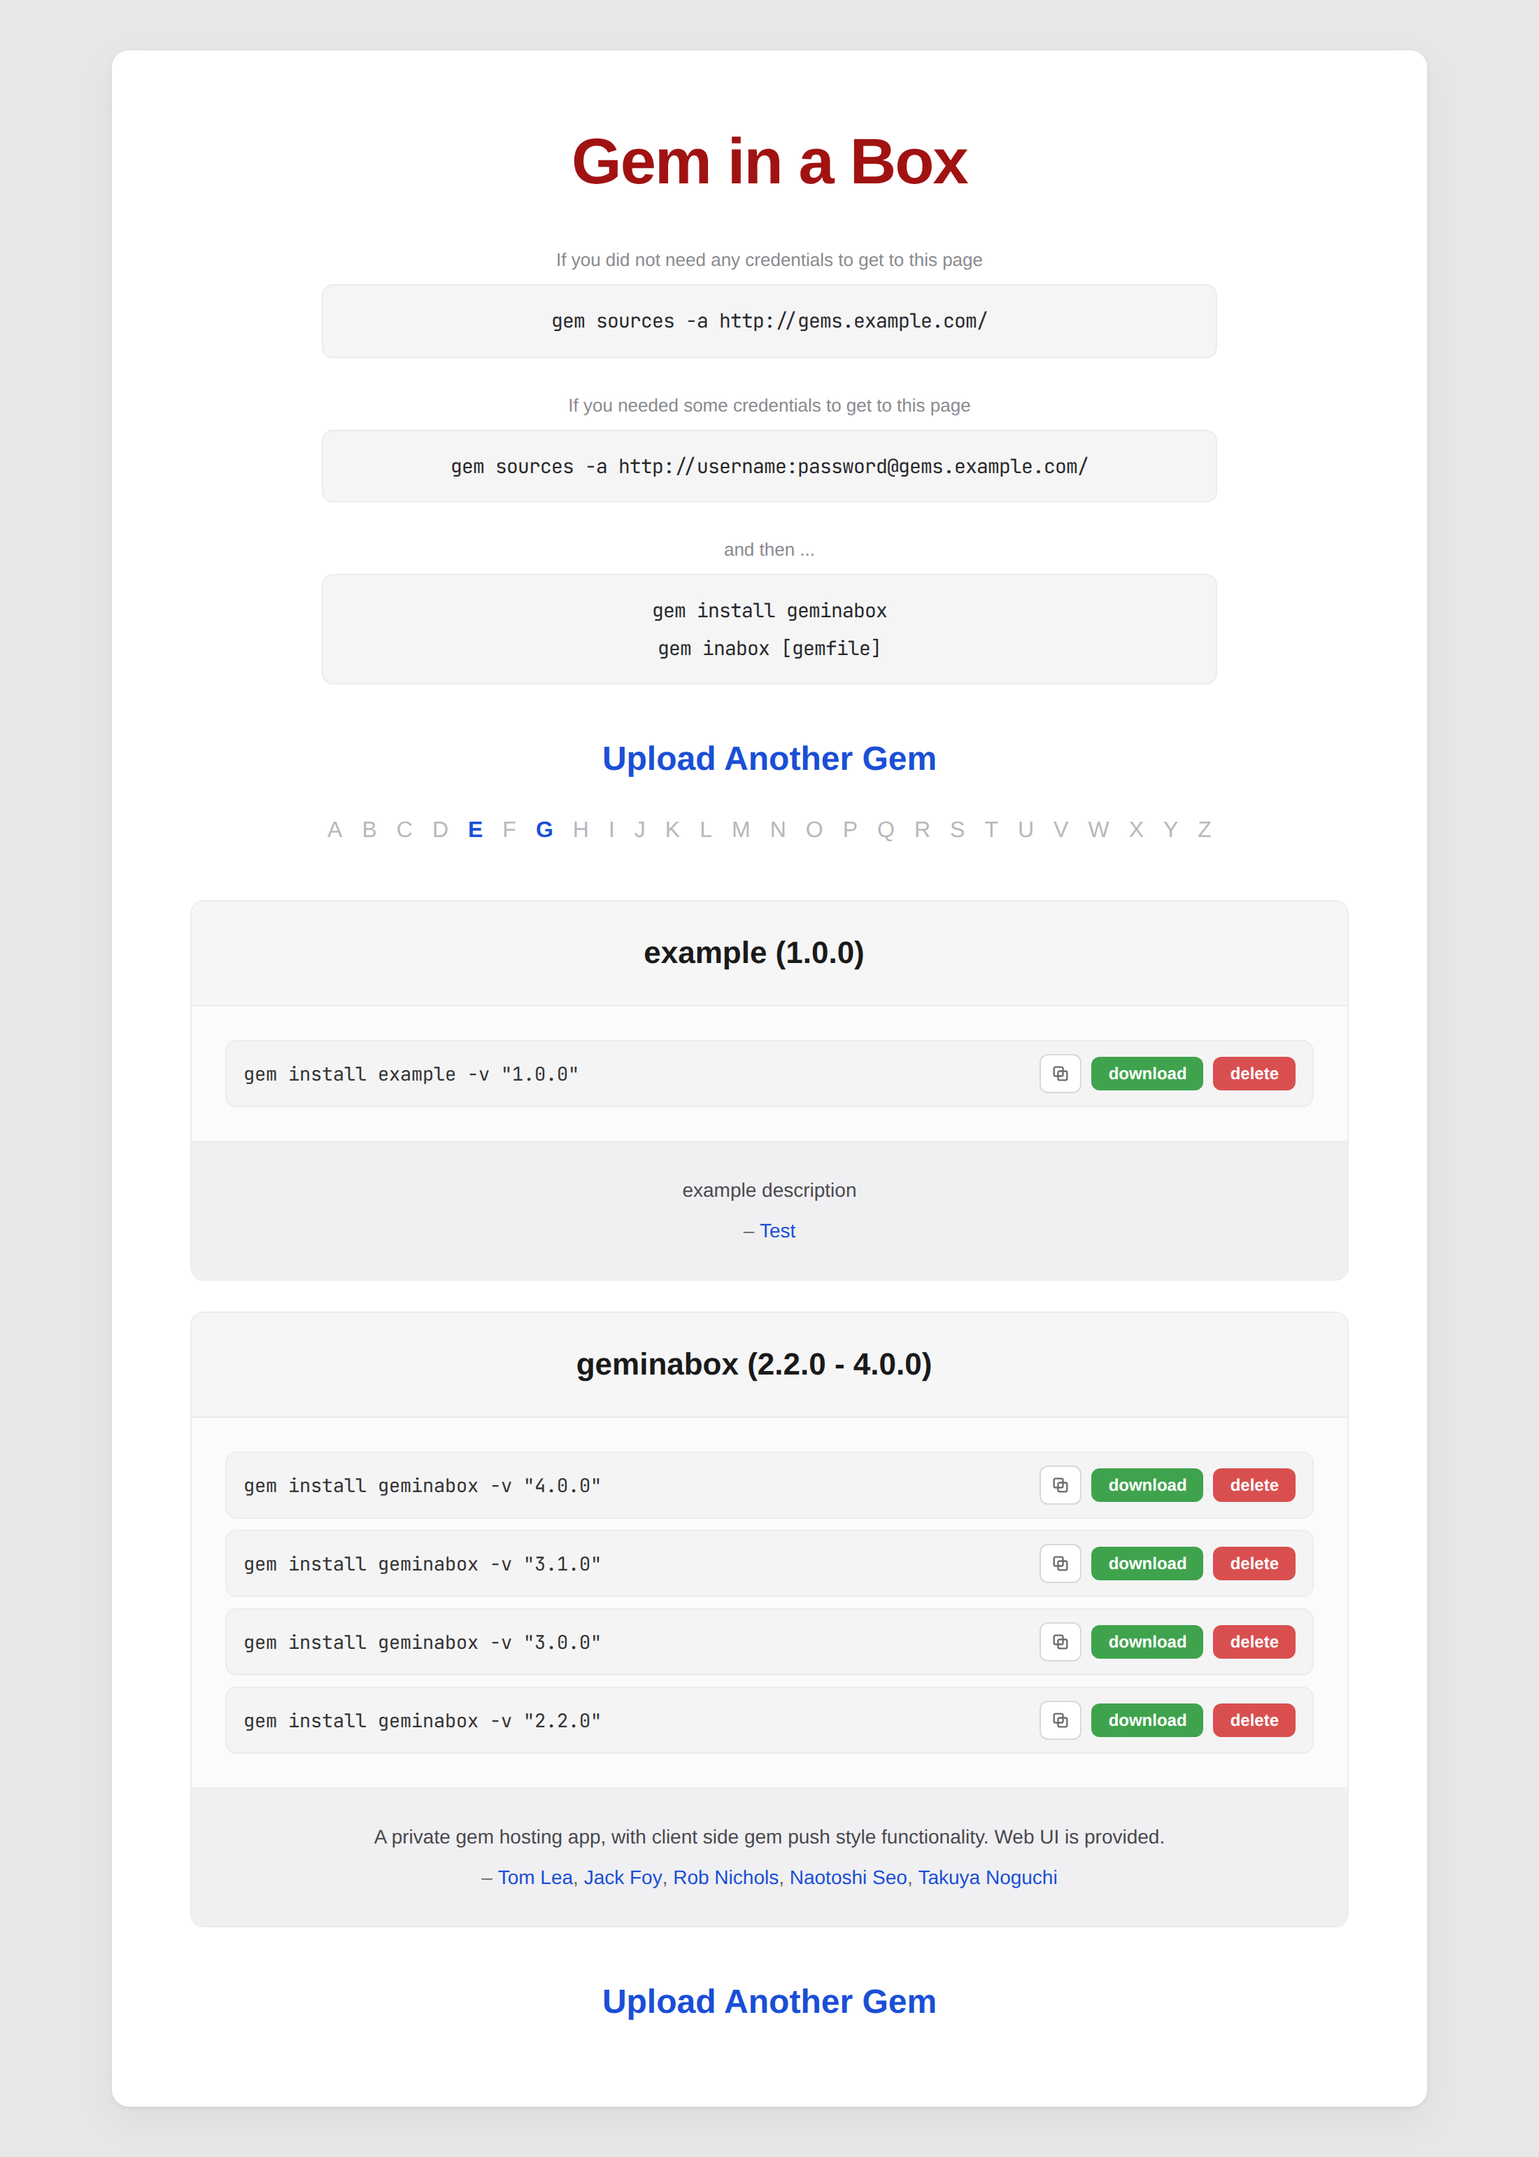
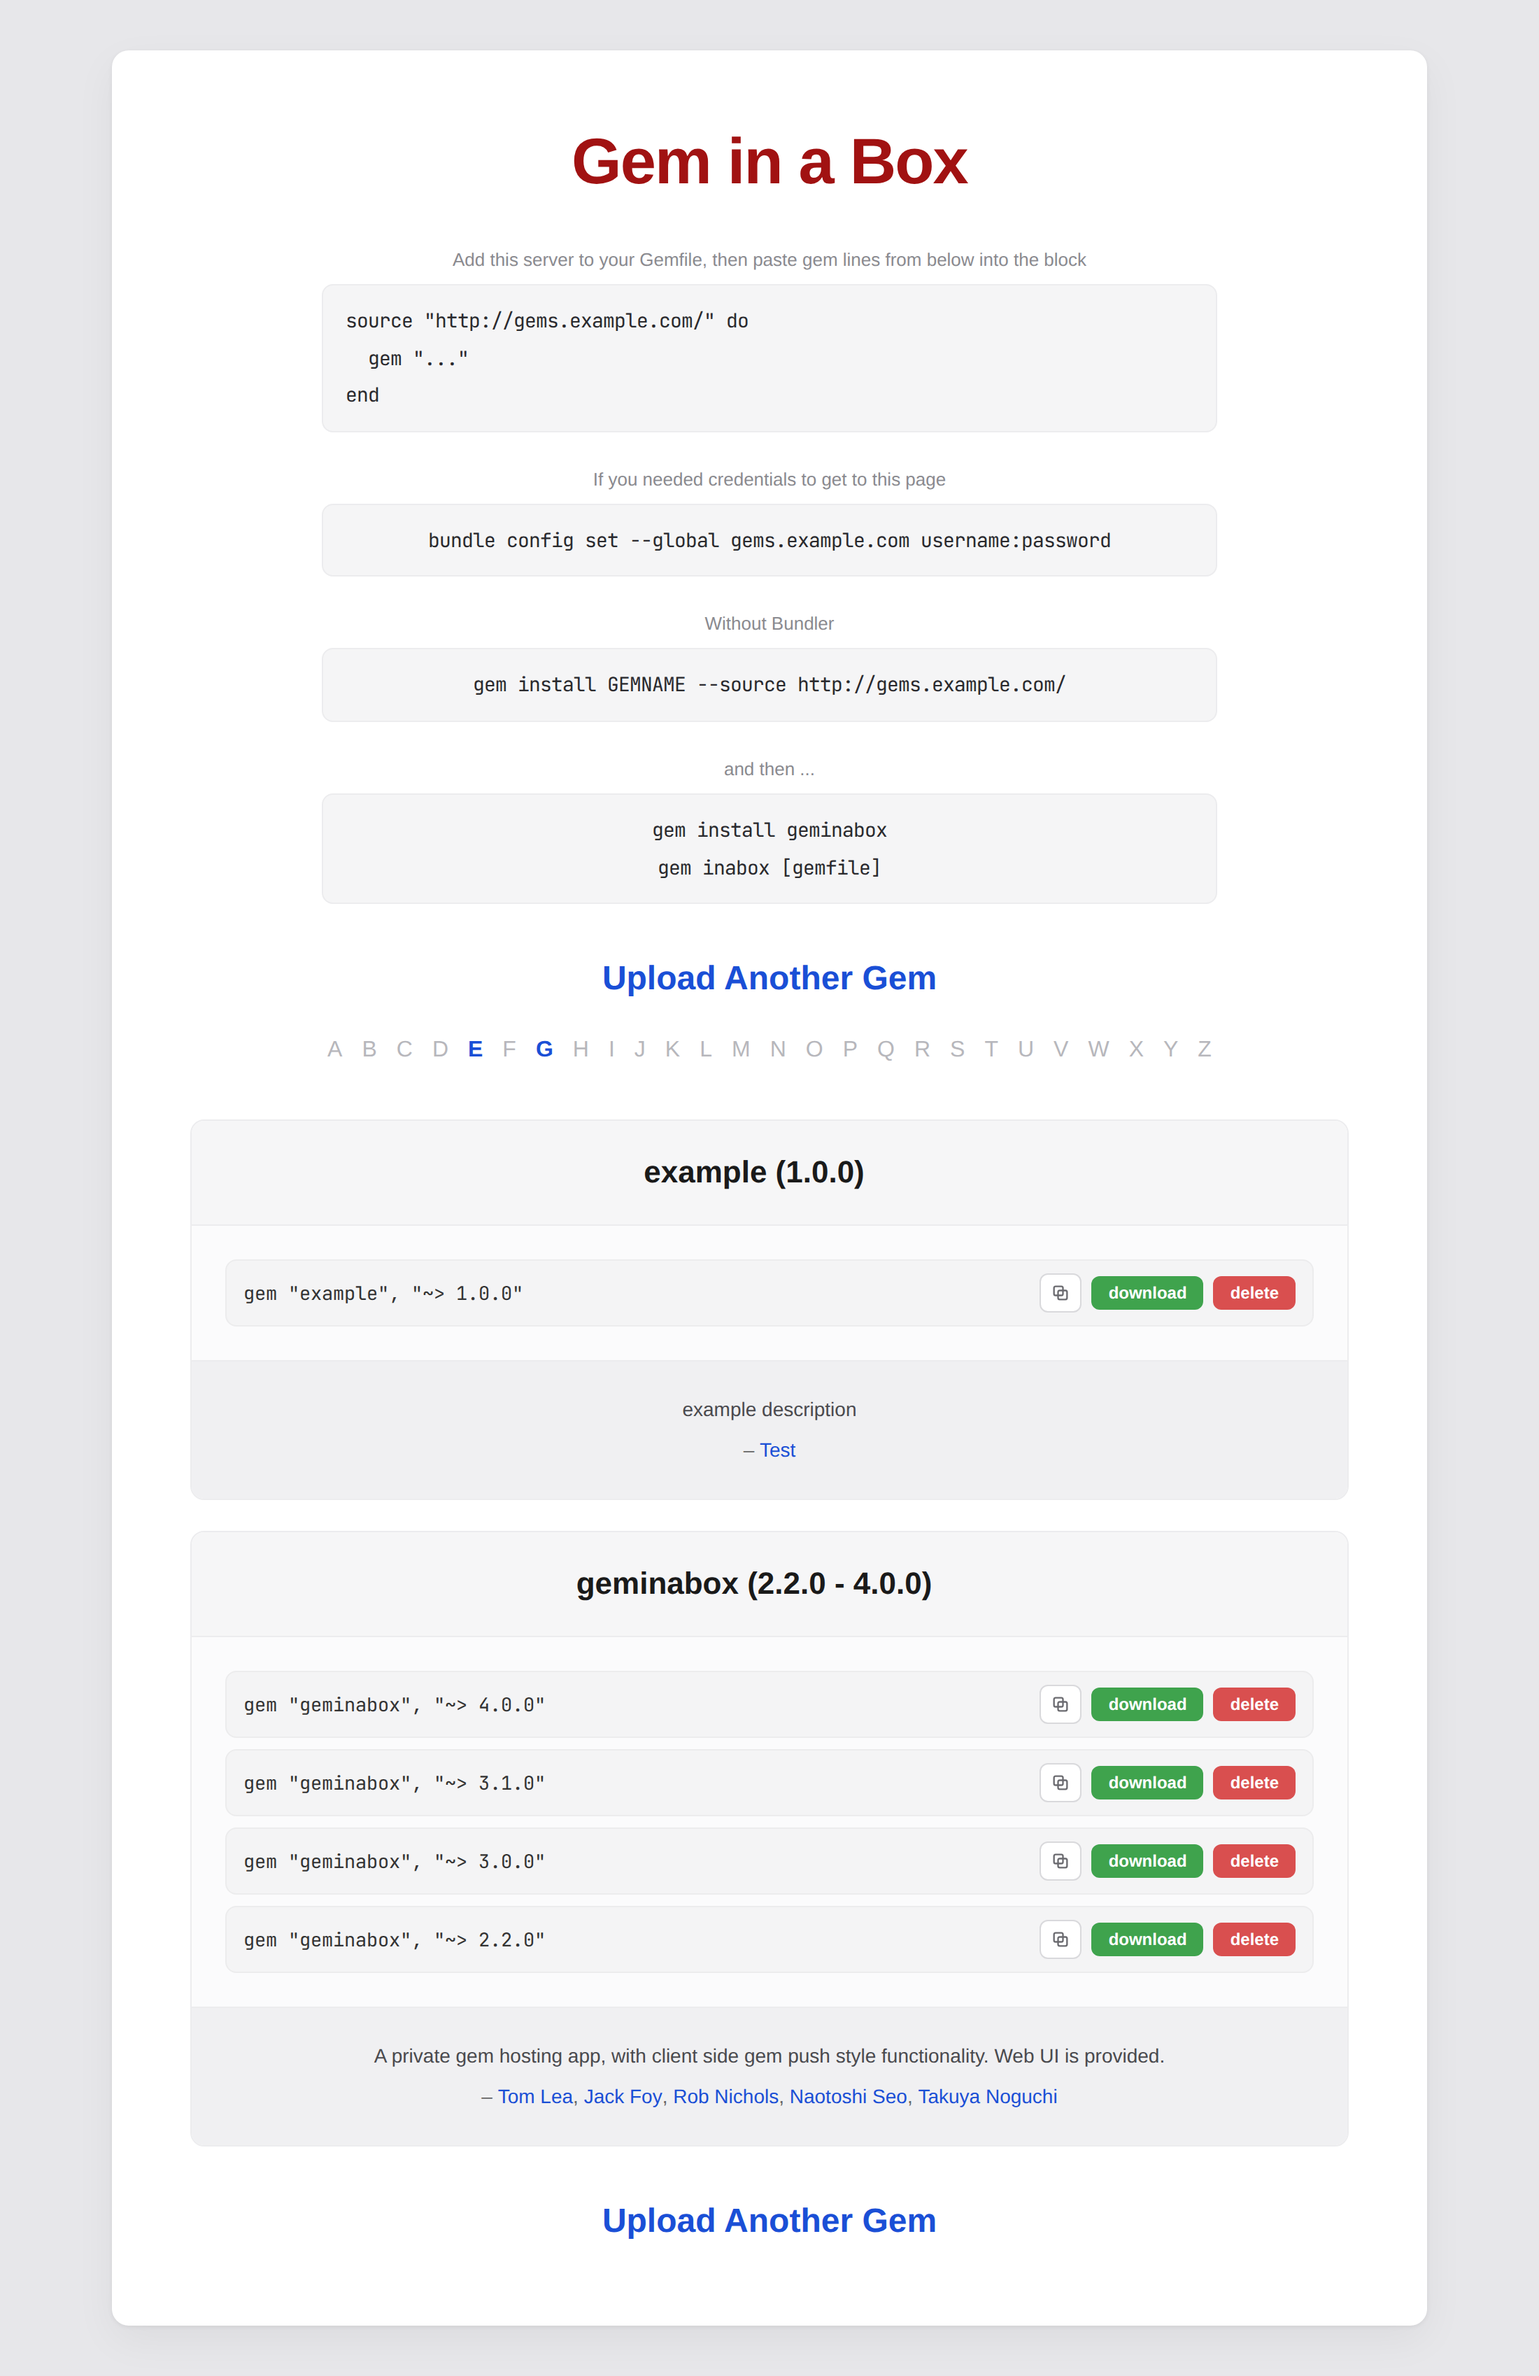
UI: offer Gemfile lines and a scoped source instead of gem sources -a
The index page told visitors to add this server as a global RubyGems source, the merged-namespace setup the README warns against, and each version row's bare gem install only worked because of it. The intro now shows a source block for this server, bundle config for credentials, and a one-off gem install --source; each row offers gem "name", "~> X.Y.Z" for pasting into that block. Ligatures are off in code so ~> does not render as an arrow. Screenshot refreshed.

diff --git a/public/master.css b/public/master.css
@@ -26,6 +26,8 @@ a:hover {
 
 code {
   font-family: "JetBrains Mono", ui-monospace, monospace;
+  /* JetBrains Mono otherwise draws "~>" as an arrow glyph. */
+  font-variant-ligatures: none;
 }
 
 form {
@@ -78,6 +80,11 @@ code.command {
   padding: 12px 16px;
   line-height: 1.9;
   overflow-x: auto;
+}
+
+code.command.snippet {
+  text-align: left;
+  white-space: pre;
 }
 
 .upload-link {

diff --git a/test/requests/install_instructions_test.rb b/test/requests/install_instructions_test.rb
@@ -1,0 +1,62 @@
+require_relative '../test_helper'
+require 'minitest'
+require 'rack/test'
+require 'nokogiri'
+
+# The UI steers clients to a Bundler scoped source, matching the README,
+# rather than adding this server as a global RubyGems source.
+class InstallInstructionsTest < Minitest::Test
+  include Rack::Test::Methods
+
+  def setup
+    clean_data_dir
+    inject_gems do |builder|
+      builder.gem "foo", version: "1.2.3"
+      builder.gem "bar", version: "2.0.0.pre"
+    end
+  end
+
+  def app
+    Geminabox::Server
+  end
+
+  def doc
+    Nokogiri::HTML(last_response.body)
+  end
+
+  def row_commands(path, env = {})
+    get path, {}, env
+    doc.css(".version-row code").map { |code| code.text.strip }
+  end
+
+  test "the index never recommends adding a global gem source" do
+    get "/"
+    refute_match(/gem sources -a/, last_response.body)
+  end
+
+  test "the index shows a scoped source block for this server" do
+    get "/"
+    assert_includes doc.css(".intro").text, 'source "http://example.org/" do'
+  end
+
+  test "the index keeps credentials out of the source URL" do
+    get "/"
+    assert_includes doc.css(".intro").text,
+                    "bundle config set --global example.org username:password"
+  end
+
+  test "version rows offer a pessimistic Gemfile line" do
+    ["/", "/gems/foo"].each do |path|
+      assert_includes row_commands(path), 'gem "foo", "~> 1.2.3"', "on #{path}"
+    end
+  end
+
+  test "prerelease rows carry the prerelease version in the requirement" do
+    assert_includes row_commands("/"), 'gem "bar", "~> 2.0.0.pre"'
+  end
+
+  test "the source block follows a sub-URI mount" do
+    get "/", {}, "SCRIPT_NAME" => "/gems"
+    assert_includes doc.css(".intro").text, 'source "http://example.org/gems/" do'
+  end
+end

diff --git a/test/requests/copy_command_markup_test.rb b/test/requests/copy_command_markup_test.rb
@@ -23,7 +23,7 @@ class CopyCommandMarkupTest < Minitest::Test
     Nokogiri::HTML(last_response.body)
   end
 
-  test "each version row offers a copy button next to its install command" do
+  test "each version row offers a copy button next to its Gemfile line" do
     ["/", "/gems/foo"].each do |path|
       get path
       rows = doc.css(".version-row")
